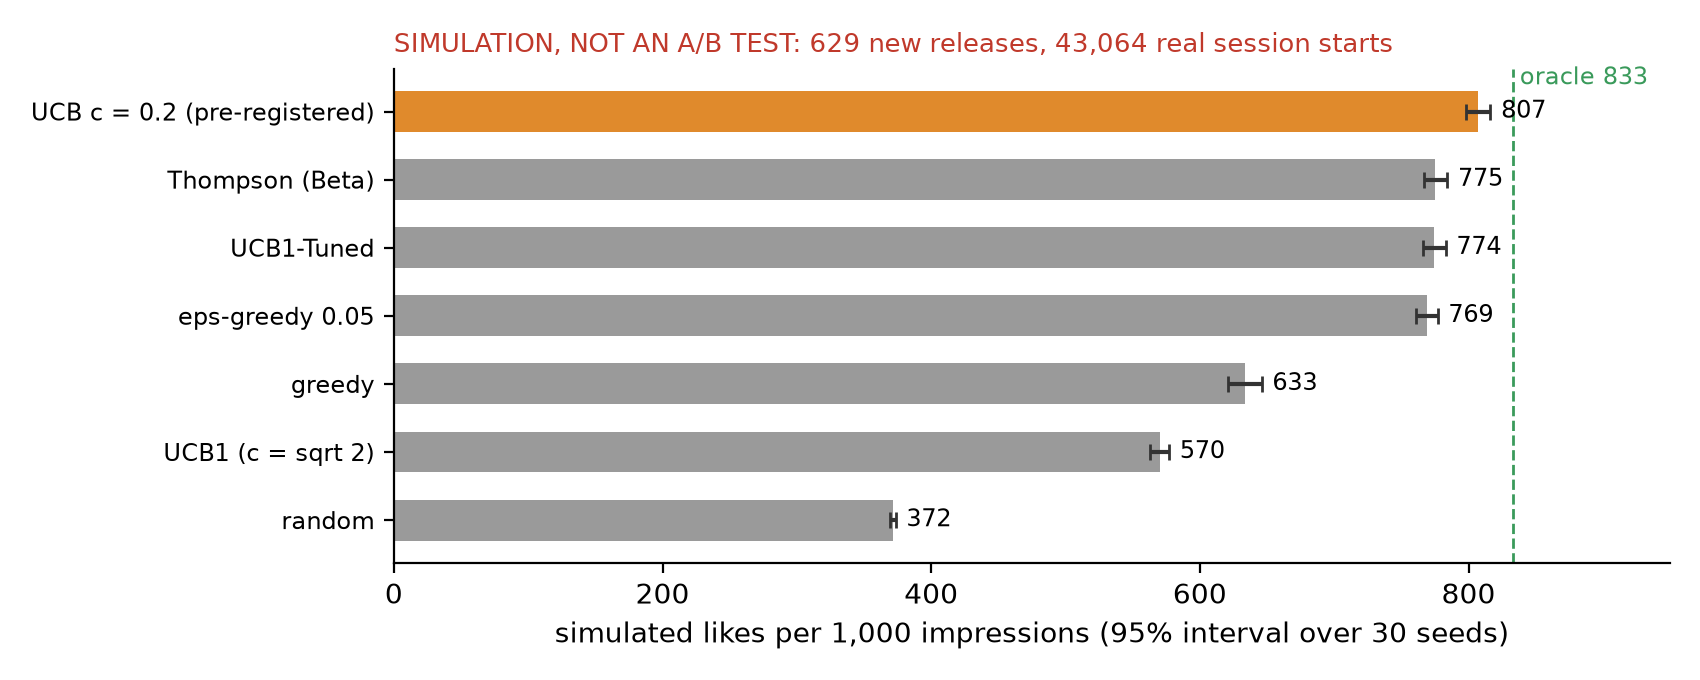
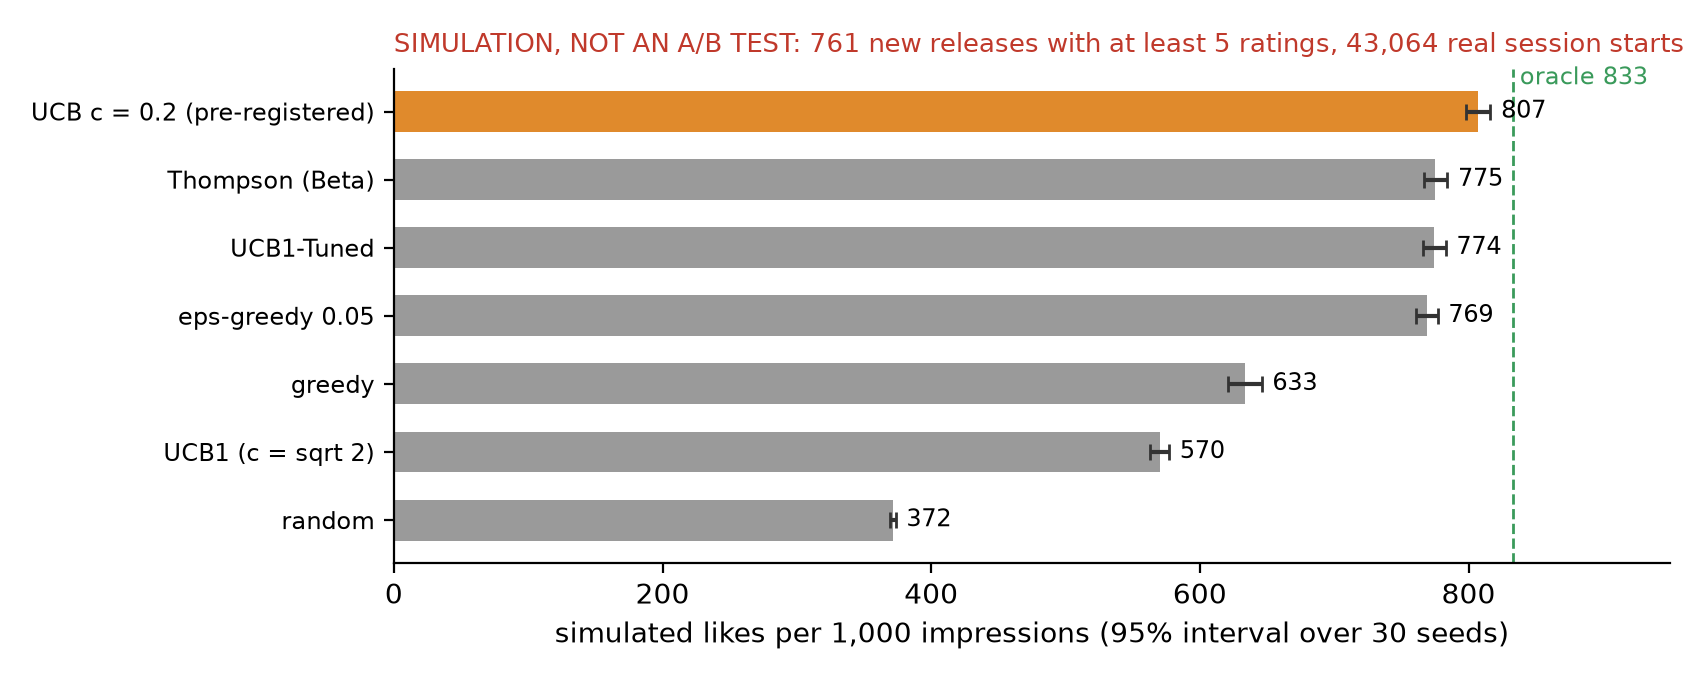
Final report: fix test-window bandit set sizes (761/266/2,830, not the validation names); Figure F.1 from the demo page; builder supports title page, table of contents, figure and table lists; references renamed to 90_

Changed region(s): [[0.6235, 0.0309, 0.9976, 0.0926], [0.4676, 0.0309, 0.4988, 0.0926]]

diff --git a/scripts/make_report_figures.py b/scripts/make_report_figures.py
@@ -251,7 +251,8 @@ def fig5_4():
     ax.set_yticklabels([r[0].replace(" (pre-registered)", " (pre-registered)") for r in rows], fontsize=8.5)
     ax.set_xlim(0, 950)
     ax.set_xlabel("simulated likes per 1,000 impressions (95% interval over 30 seeds)")
-    ax.set_title("SIMULATION, NOT AN A/B TEST: 629 new releases, 43,064 real session starts", loc="left", fontsize=9.5, color=RED)
+    n_arms = re.search(r"-- 629 arms \(>=5 ratings\) \((\d+) arms\)", text).group(1)
+    ax.set_title(f"SIMULATION, NOT AN A/B TEST: {n_arms} new releases with at least 5 ratings, 43,064 real session starts", loc="left", fontsize=9.5, color=RED)
     fig.tight_layout()
     return fig
 
@@ -299,7 +300,67 @@ def fig5_6():
     return fig
 
 
-FIGURES = {"fig3_1": (fig3_1, "fig3_1_splits.png"), "fig4_1": (fig4_1, "fig4_1_architecture.png"), "fig4_2": (fig4_2, "fig4_2_funnel.png"),
+DEMO = ROOT / "reports" / "module9_demo.html"
+
+
+def demo_section_b():
+    """The two ranked lists (tv, mobile) of section B of the saved demo page, with the Drama-without-Comedy marks."""
+    from html.parser import HTMLParser
+    text = DEMO.read_text()
+    part = text[text.index("<h2>B."):text.index("<h2>C.")]
+
+    class P(HTMLParser):
+        def __init__(self):
+            super().__init__()
+            self.tables, self.row, self.cell, self.mark = [], None, None, False
+
+        def handle_starttag(self, tag, attrs):
+            a = dict(attrs)
+            if tag == "table":
+                self.tables.append([])
+            elif tag == "tr":
+                self.row, self.mark = [], a.get("class") == "mark"
+            elif tag == "td" and self.row is not None:
+                self.cell = ""
+
+        def handle_endtag(self, tag):
+            if tag == "td" and self.cell is not None:
+                self.row.append(self.cell)
+                self.cell = None
+            elif tag == "tr" and self.row:
+                self.tables[-1].append((self.row, self.mark))
+                self.row = None
+
+        def handle_data(self, data):
+            if self.cell is not None:
+                self.cell += data
+    p = P()
+    p.feed(part)
+    avg = re.search(r"M3b tv <b>([\d.]+)</b>, M3b mobile <b>([\d.]+)</b>, M2 \(ignores device\) <b>([\d.]+)</b>", part).groups()
+    return p.tables[:2], avg
+
+
+def figF_1():
+    """Section B of the demo page (synthetic device scenario), re-drawn from the saved page."""
+    (tv, mob), avg = demo_section_b()
+    fig, axes = plt.subplots(1, 2, figsize=(9, 6.2))
+    fig.suptitle("Synthetic device effect, pipeline demonstration, not a finding", color=RED, fontsize=12, fontweight="bold", y=0.985)
+    for ax, rows, label in ((axes[0], tv, "SIMULATED device = tv"), (axes[1], mob, "SIMULATED device = mobile")):
+        ax.axis("off")
+        ax.set_title(f"{label}\n{sum(m for _, m in rows)} of 18 are Drama-without-Comedy", fontsize=9.5, loc="left")
+        for i, (cells, marked) in enumerate(rows):
+            y = 1 - (i + 1) / 19.5
+            if marked:
+                ax.add_patch(plt.Rectangle((0, y - 0.022), 1, 0.045, color="#fde2e2", transform=ax.transAxes, clip_on=False))
+            ax.text(0.02, y, cells[0], transform=ax.transAxes, fontsize=8.5, va="center")
+            ax.text(0.10, y, cells[1][:44], transform=ax.transAxes, fontsize=8.5, va="center")
+    fig.text(0.5, 0.015, f"Shaded rows: Drama-without-Comedy titles. One sampled user shown (MovieLens titles).\n"
+             f"Average over 40 users: M3b tv {avg[0]}, M3b mobile {avg[1]}, M2 (ignores device) {avg[2]}.", ha="center", fontsize=8.5)
+    fig.tight_layout(rect=(0, 0.06, 1, 0.96))
+    return fig
+
+
+FIGURES = {"fig3_1": (fig3_1, "fig3_1_splits.png"), "figF_1": (figF_1, "figF_1_demo_m3b.png"), "fig4_1": (fig4_1, "fig4_1_architecture.png"), "fig4_2": (fig4_2, "fig4_2_funnel.png"),
            "fig5_1": (fig5_1, "fig5_1_headline.png"), "fig5_2": (fig5_2, "fig5_2_reranking.png"), "fig5_3": (fig5_3, "fig5_3_retrieval.png"),
            "fig5_4": (fig5_4, "fig5_4_bandit.png"), "fig5_5": (fig5_5, "fig5_5_latency.png"), "fig5_6": (fig5_6, "fig5_6_levels.png")}
 

diff --git a/scripts/build_report_docx.py b/scripts/build_report_docx.py
@@ -86,7 +86,66 @@ def flush_table(doc, rows):
     doc.add_paragraph()
 
 
-def add_chapter(doc, path: Path, first: bool):
+def captions(files):
+    """Figure and table titles in document order, for the generated lists."""
+    figs, tabs = [], []
+    for f in files:
+        for line in f.read_text().splitlines():
+            m = re.match(r"^!\[(Figure [A-Z0-9]+\.\d+) (.*)\]\(", line.strip())
+            if m:
+                figs.append(f"{m.group(1)}  {m.group(2)}")
+            t = re.match(r"^\*\*(Table [A-Z0-9]+\.\d+)\*\* \*(.*)\*\s*$", line.strip())
+            if t:
+                tabs.append(f"{t.group(1)}  {t.group(2)}")
+    return figs, tabs
+
+
+def add_toc(doc):
+    p = doc.add_paragraph()
+    run = p.add_run()
+    for tag, text in (("begin", None), (None, 'TOC \\o "1-2" \\h \\z \\u'), ("separate", None)):
+        if tag:
+            el = OxmlElement("w:fldChar")
+            el.set(qn("w:fldCharType"), tag)
+        else:
+            el = OxmlElement("w:instrText")
+            el.set(qn("xml:space"), "preserve")
+            el.text = text
+        run._r.append(el)
+    run2 = p.add_run("Right-click here and choose Update Field (or press F9) to build the table of contents.")
+    run2.italic = True
+    end = OxmlElement("w:fldChar")
+    end.set(qn("w:fldCharType"), "end")
+    run2._r.append(end)
+
+
+def ask_word_to_update_fields(doc):
+    settings = doc.settings.element
+    el = OxmlElement("w:updateFields")
+    el.set(qn("w:val"), "true")
+    settings.append(el)
+
+
+def add_title_page(doc, path: Path):
+    lines = [l for l in path.read_text().splitlines() if l.strip() and not l.strip().startswith("<!--")]
+    for i, line in enumerate(lines):
+        if line.strip() == "[[GAP]]":
+            for _ in range(3):
+                doc.add_paragraph()
+            continue
+        p = doc.add_paragraph()
+        p.alignment = WD_ALIGN_PARAGRAPH.CENTER
+        text = line.strip()
+        bold = text.startswith("**") and text.endswith("**")
+        run = p.add_run(text.strip("*"))
+        run.bold = bold or i == 0
+        run.font.size = Pt(18 if i == 0 else 13 if bold else 12)
+
+
+def add_chapter(doc, path: Path, first: bool, all_files=()):
+    if "<!-- titlepage -->" in path.read_text():
+        add_title_page(doc, path)
+        return
     lines = path.read_text().splitlines()
     table, para = [], []
 
@@ -106,6 +165,19 @@ def add_chapter(doc, path: Path, first: bool):
             table = []
         m = re.match(r"^(#{1,3}) (.*)", line)
         img = re.match(r"^!\[(.*)\]\((.*)\)\s*$", line.strip())
+        if line.strip() in ("[[TOC]]", "[[LIST_OF_FIGURES]]", "[[LIST_OF_TABLES]]", "<!-- pagebreak -->"):
+            flush_para()
+            if line.strip() == "[[TOC]]":
+                add_toc(doc)
+            elif line.strip() == "<!-- pagebreak -->":
+                doc.add_page_break()
+            else:
+                figs, tabs = captions(all_files)
+                for entry in (figs if "FIGURES" in line else tabs):
+                    q = doc.add_paragraph(entry)
+                    q.paragraph_format.line_spacing = 1.15
+                    q.paragraph_format.space_after = Pt(2)
+            continue
         if m:
             flush_para()
             if len(m.group(1)) == 1 and not first:
@@ -147,8 +219,9 @@ def main(argv=None) -> int:
     files = [FINAL / f for f in args.files] if args.files else sorted(p for p in FINAL.glob("[0-9][0-9]_*.md"))
     doc = Document()
     setup(doc)
+    ask_word_to_update_fields(doc)
     for i, f in enumerate(files):
-        add_chapter(doc, f, first=(i == 0))
+        add_chapter(doc, f, first=(i == 0), all_files=files)
     out = Path(args.out)
     out.parent.mkdir(parents=True, exist_ok=True)
     doc.save(out)

diff --git a/scripts/check_report_style.py b/scripts/check_report_style.py
@@ -19,7 +19,7 @@ BANNED = ["delve", "tapestry", "landscape", "realm", "robust", "leverage", "seam
           "valuable insights", "vibrant", "empower", "empowers", "streamline", "synergy", "paradigm", "noteworthy", "commendable", "remarkable",
           "ultimately", "plays a role", "a wide range of", "in the world of"]
 SKIP = {"STYLE.md"}  # the style guide lists the banned words on purpose
-TITLES_ONLY = {"99_references.md"}  # paper titles must be quoted exactly (one contains "Robust"): only dashes are checked there
+TITLES_ONLY = {"90_references.md"}  # paper titles must be quoted exactly (one contains "Robust"): only dashes are checked there
 
 
 def check_text(text: str, dashes_only: bool = False) -> list:

diff --git a/reports/final/05_results.md b/reports/final/05_results.md
@@ -82,13 +82,13 @@ The synthetic scenario also says something useful about scale. A fairly strong p
 
 *All numbers in this section come from a SIMULATION, NOT AN A/B TEST.*
 
-The bandit simulation on the test window used 2,830 new releases and 43,064 real session starts between March 2017 and November 2019. Figure 5.4 shows the main set of 629 titles that had at least five ratings in the window.
+The bandit simulation on the test window used 2,830 new releases and 43,064 real session starts between March 2017 and November 2019. Figure 5.4 shows the main set: the 761 titles with at least five ratings in the test window (the same rule gave 629 titles in the validation window, where the constant was tuned).
 
-![Figure 5.4 Simulated likes per 1,000 impressions on the 629-title set, test window (SIMULATION, NOT AN A/B TEST)](figures/fig5_4_bandit.png)
+![Figure 5.4 Simulated likes per 1,000 impressions on the 761 titles with at least five ratings, test window (SIMULATION, NOT AN A/B TEST)](figures/fig5_4_bandit.png)
 
 The best possible strategy, one that already knows every title's true like rate, earns 833 likes per 1,000 impressions. Showing titles at random earns 372. Measured against that gap, UCB with c = 0.2 captured 94% of the possible gain, Thompson sampling 87% and textbook UCB1 only 43%. Plain greedy (always show the current best) got stuck early on titles that only looked good.
 
-The same ordering held on the smaller set of 239 well-rated titles and on the larger set of 2,031 titles. On the larger set, UCB1 did even worse (484, barely above random at 386), because its bonus keeps it exploring hundreds of thin titles.
+The same ordering held on the smaller set of 266 titles with at least 20 ratings and on the full set of 2,830 titles with at least one rating. On the larger set, UCB1 did even worse (484, barely above random at 386), because its bonus keeps it exploring hundreds of thin titles.
 
 There is a trade-off hidden in these numbers. UCB with a small constant concentrates impressions on a few titles: its exposure Gini coefficient is 0.98, against 0.90 for Thompson sampling. Every title did get shown at least once, but most impressions went to the leaders. For a platform that also cares about giving each new release a fair chance, Thompson sampling is a reasonable alternative that earns a little less (Chapter 6).
 

diff --git a/reports/final/04_methodology.md b/reports/final/04_methodology.md
@@ -134,7 +134,7 @@ The bandit was judged on the calendar split from Section 3.5, because that is wh
 
 ### Tuning the constant without cheating
 
-The textbook UCB1 constant explored far too much with hundreds of titles. So I tuned c on the first half of the validation request stream and evaluated on the second half, with different random seeds. The chosen value for the main set of 629 titles was c = 0.2, and the second half confirmed it. That value was then fixed in the test protocol before the test was opened.
+The textbook UCB1 constant explored far too much with hundreds of titles. So I tuned c on the first half of the validation request stream and evaluated on the second half, with different random seeds. The chosen value for the main set (629 titles with at least five ratings in the validation window) was c = 0.2, and the second half confirmed it. That value was then fixed in the test protocol before the test was opened.
 
 ### What the shelf costs
 
